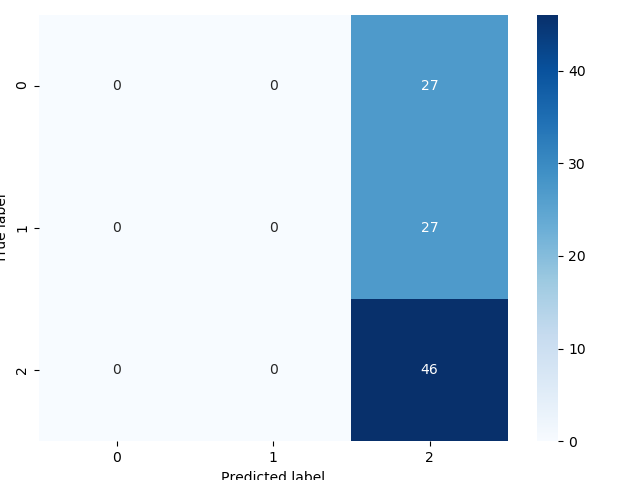
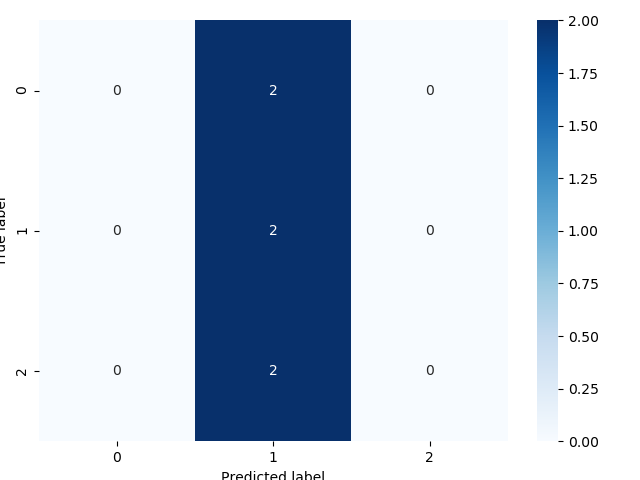
Changed aleatory batch to static dataset and batches

diff --git a/CNN/venv/cnn_DatasetFijo.py b/CNN/venv/cnn_DatasetFijo.py
@@ -1,0 +1,220 @@
+import glob, os, json
+import matplotlib.image as mpimg
+import matplotlib.pyplot as plt
+import numpy as np
+import tensorflow
+import seaborn as sns
+
+from tensorflow.keras.models import Sequential
+from tensorflow.keras.layers import Dense, Dropout, Flatten
+from tensorflow.keras.layers import Conv2D, MaxPooling2D
+from tensorflow.keras import backend as K
+from PIL import Image
+from sklearn.metrics import plot_confusion_matrix
+
+
+class CNN:
+    def __init__(self):
+        self.lossArray = []
+        self.accuracyArray = []
+
+        self.num_imgs = 10000
+
+        self.batch_size = 60 #Tiene que ser multiplo de 3
+        self.epochs = 5000
+        self.num_classes = 3
+        self.batches = int((self.num_classes*self.num_imgs)/self.batch_size)
+
+        self.input_shape = (512, 512, 1)
+        self.savePerformance = 20
+
+        self.model = Sequential()
+        self.model.add(Conv2D(32, kernel_size=(5, 5), strides=(1, 1),
+                 activation='relu',
+                 input_shape=self.input_shape))
+        self.model.add(MaxPooling2D())
+        self.model.add(Conv2D(64, kernel_size=(5, 5), activation='relu'))
+        self.model.add(MaxPooling2D())
+        self.model.add(Conv2D(128, kernel_size=(3, 3), activation='relu'))
+        self.model.add(MaxPooling2D())
+        self.model.add(Flatten())
+        self.model.add(Dense(256, activation='linear', activity_regularizer=tensorflow.keras.regularizers.l1(0.0001)))
+        self.model.add(Activation('relu'))
+        self.model.add(Dropout(0.2))
+        self.model.add(Dense(64, activation='linear', activity_regularizer=tensorflow.keras.regularizers.l1(0.0001)))
+        self.model.add(Activation('relu'))
+        self.model.add(Dropout(0.2))
+        self.model.add(Dense(self.num_classes, activation='softmax'))
+        self.model.add(Dropout(0.2))
+        self.model.compile(loss=tensorflow.keras.losses.sparse_categorical_crossentropy,
+              optimizer='Adam',
+              metrics=['accuracy'])
+        print(self.model.summary())
+
+    def save_model(self):
+        print("\t Guardando el modelo")
+
+        def save(model, model_name):
+            model_path = "saved_model/%s.json" % model_name
+            weights_path = "saved_model/%s_weights.hdf5" % model_name
+            options = {"file_arch": model_path,
+                       "file_weight": weights_path}
+            json_string = model.to_json()
+            open(options['file_arch'], 'w').write(json_string)
+            model.save_weights(options['file_weight'])
+
+        save(self.model, "cnn")
+
+    def generate_graphic(self):
+        print("\t Guardando el grafico de losses")
+        x_plot = np.arange(self.lossArray.shape[0])
+
+        fig, (ax1, ax2) = plt.subplots(2)
+        ax1.plot(x_plot, self.lossArray)
+        ax2.plot(x_plot, self.accuracyArray)
+        ax1.set_title('Loss')
+        ax2.set_title('Accuracy')
+        filename = 'graphics/generated_graphic_e%03d.png' % (epoch)
+        plt.savefig(filename)
+        plt.close()
+
+    def savePrediction(self, x_train, y_train, y_trainPredict):
+        print("\t Guardando predicciones")
+        x_train = x_train.reshape(1,512,512)
+        fig = plt.figure()
+        a = fig.add_subplot(1, 1, 1)
+
+        a.set_title(str(y_train) + "/" + str(y_trainPredict))
+        plt.imshow(x_train[0], cmap="gray")
+        filename = 'images/generated_prediction_e%03d.png' % (epoch)
+        plt.savefig(filename)
+        plt.close()
+
+    def saveConfMatrix(self, x_train, y_train, y_trainPredict):
+        print("\t Guardando matriz de confusion")
+        confMat = tensorflow.math.confusion_matrix(labels = y_train, predictions = y_trainPredict).numpy()
+
+        figure = plt.figure()
+        sns.heatmap(confMat, annot=True, cmap=plt.cm.Blues)
+        plt.tight_layout()
+        plt.ylabel('True label')
+        plt.xlabel('Predicted label')
+        filename = 'confMatrix/generated_confMat_e%03d.png' % (epoch)
+        plt.savefig(filename)
+        plt.close()
+
+def get_imgs(n_imgs):
+    print("-----CARGANDO DATASET-----")
+
+    CLASS0 = 0
+    CLASS1 = 0
+    CLASS2 = 0
+    x = [[],[],[]]
+    y = [[],[],[]]
+    i = 0
+    j = 0
+
+    while (i<16 and (CLASS0<n_imgs or CLASS1<n_imgs or CLASS2<n_imgs)):
+        with open(('C:/Users/Guillermo/Desktop/TFG/DatasetBW/MetadataImg/' + str(i) + '.json'), 'r', encoding="utf8") as f:
+            data = json.load(f)
+        print('C:/Users/Guillermo/Desktop/TFG/DatasetBW/MetadataImg/' + str(i) + '.json')
+
+        j=0
+        while(j<len(data) and (CLASS0<n_imgs or CLASS1<n_imgs or CLASS2<n_imgs)):
+            fold = '%04d' % (int(data[j]["id"]) % 1000)
+            try:
+                imgFile = "C:/Users/Guillermo/Desktop/TFG/DatasetBW/BWImages/" + fold + "/" + str(data[j]["id"]) + ".jpg"
+                img = plt.imread(imgFile)
+
+                if (data[j]["tagArray"][11] == 1 and CLASS0<n_imgs):
+                    # Sombrero
+                    x[0].append(imgFile)
+                    y[0].append("0")
+                    CLASS0 += 1
+                elif (data[j]["tagArray"][0] == 1 and data[j]["tagArray"][3] == 1 and CLASS1<n_imgs):
+                    # Chica con el pelo corto
+                    x[1].append(imgFile)
+                    y[1].append("1")
+                    CLASS1 += 1
+                elif (data[j]["tagArray"][0] == 1 and data[j]["tagArray"][1] == 1 and CLASS2<n_imgs):
+                    # Chica con el pelo largo
+                    x[2].append(imgFile)
+                    y[2].append("2")
+                    CLASS2 += 1
+            except FileNotFoundError:
+                ""
+            j+=1
+        i+=1
+
+    print("Imagenes cargadas:\n"
+          "\tClase 0: " + str(CLASS0) + "\tClase 1: " + str(CLASS1) + "\tClase 2: " + str(CLASS2))
+    return x, y
+
+def mix_dataset(x_dataset, y_dataset, n_batches, n_imgs):
+    x_train = [[None for m in range(n_imgs)] for n in range(n_batches)]
+    y_train = [[None for m in range(n_imgs)] for n in range(n_batches)]
+
+    aux = 0
+    for i in range(n_batches):
+        j = 0
+        while j<(n_imgs):
+            x_train[i][j] = x_dataset[0][aux]
+            y_train[i][j] = y_dataset[0][aux]
+            j += 1
+            x_train[i][j] = x_dataset[1][aux]
+            y_train[i][j] = y_dataset[1][aux]
+            j += 1
+            x_train[i][j] = x_dataset[2][aux]
+            y_train[i][j] = y_dataset[2][aux]
+            j += 1
+            aux += 1
+
+    return x_train, y_train
+
+def load_dataset(n_imgs, batch_size):
+    x_dataset, y_dataset = get_imgs(n_imgs)
+    n_batches = int((n_imgs*3)/batch_size)
+    x_train, y_train = mix_dataset(x_dataset, y_dataset, n_batches, batch_size)
+
+    return x_train, y_train
+
+def get_batch(x_dataset, y_dataset, input_shape):
+    x_train = [None for m in range(len(x_dataset))]
+    y_train = [None for m in range(len(y_dataset))]
+
+    y_train = y_dataset
+    for it in range(len(x_dataset)):
+        x_train[it] = plt.imread(x_dataset[it])
+    x_train = np.asarray(x_train)
+    y_train = np.asarray(y_train)
+
+    x_train = x_train.reshape(x_train.shape[0], input_shape[0], input_shape[1], input_shape[2])
+
+    x_train = x_train.astype('float32')
+    y_train = y_train.astype('int32')
+    np.true_divide(x_train, 255)
+
+    return x_train, y_train
+
+cnn = CNN()
+
+datasetX, datasetY = load_dataset(cnn.num_imgs, cnn.batch_size) #aqui no va 300, va cnn.batch_size
+for epoch in range(cnn.epochs):
+    print("-----EPOCH " + str(epoch) +"/" + str(cnn.epochs) + "-----")
+
+    for batch in range(cnn.batches):
+        x_train, y_train = get_batch(datasetX[epoch], datasetY[epoch], cnn.input_shape)
+
+        loss = cnn.model.train_on_batch(x_train, y_train)
+        print(str(batch) + "/" + str(cnn.batches) + "\t[Loss: " + str(loss[0]) +
+              "\tAccuracy: " + str(loss[1]) + "]")
+
+        cnn.lossArray = np.append(cnn.lossArray, loss[0])
+        cnn.accuracyArray = np.append(cnn.accuracyArray, loss[1])
+
+        if (batch % cnn.savePerformance == 0):
+            cnn.save_model()
+            cnn.generate_graphic()
+            x_train, y_train = get_batch(datasetX[0], datasetY[0], cnn.input_shape)
+            y_trainPredict = cnn.model.predict_classes(x_train)
+            cnn.saveConfMatrix(x_train, y_train, y_trainPredict)
